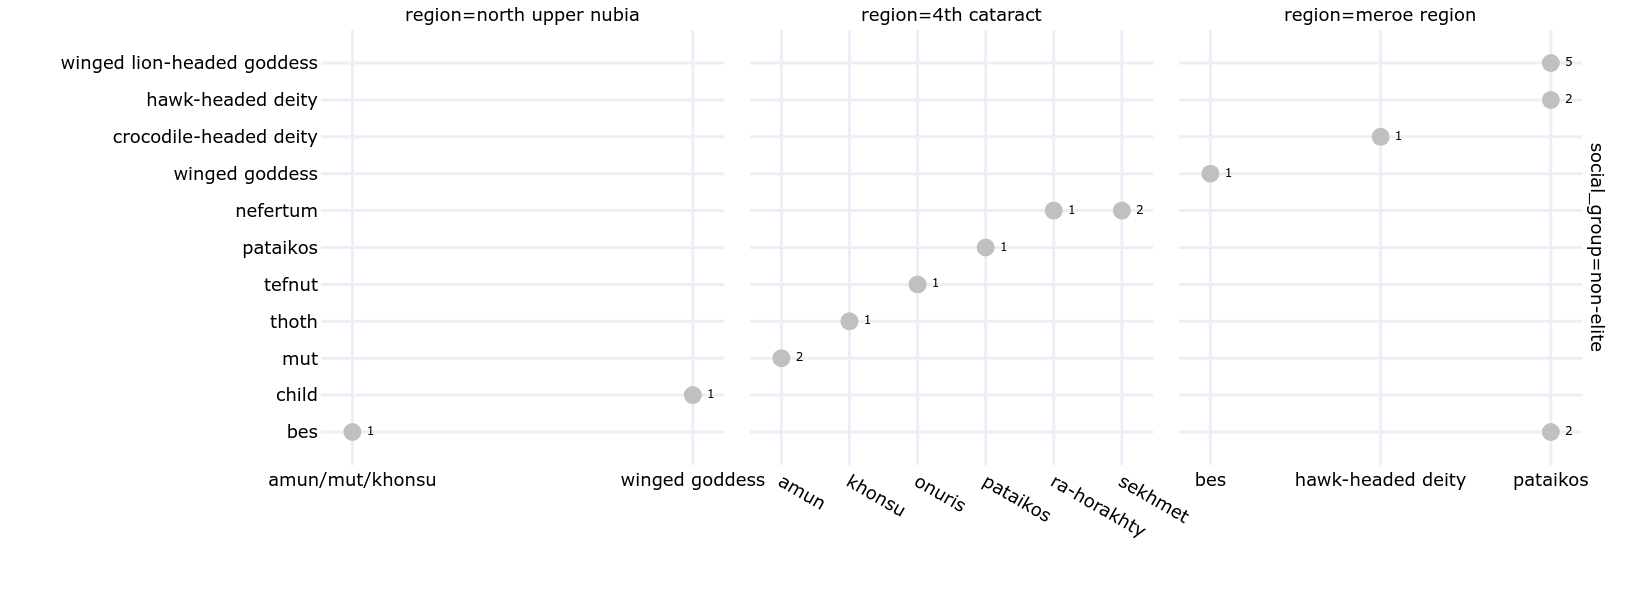
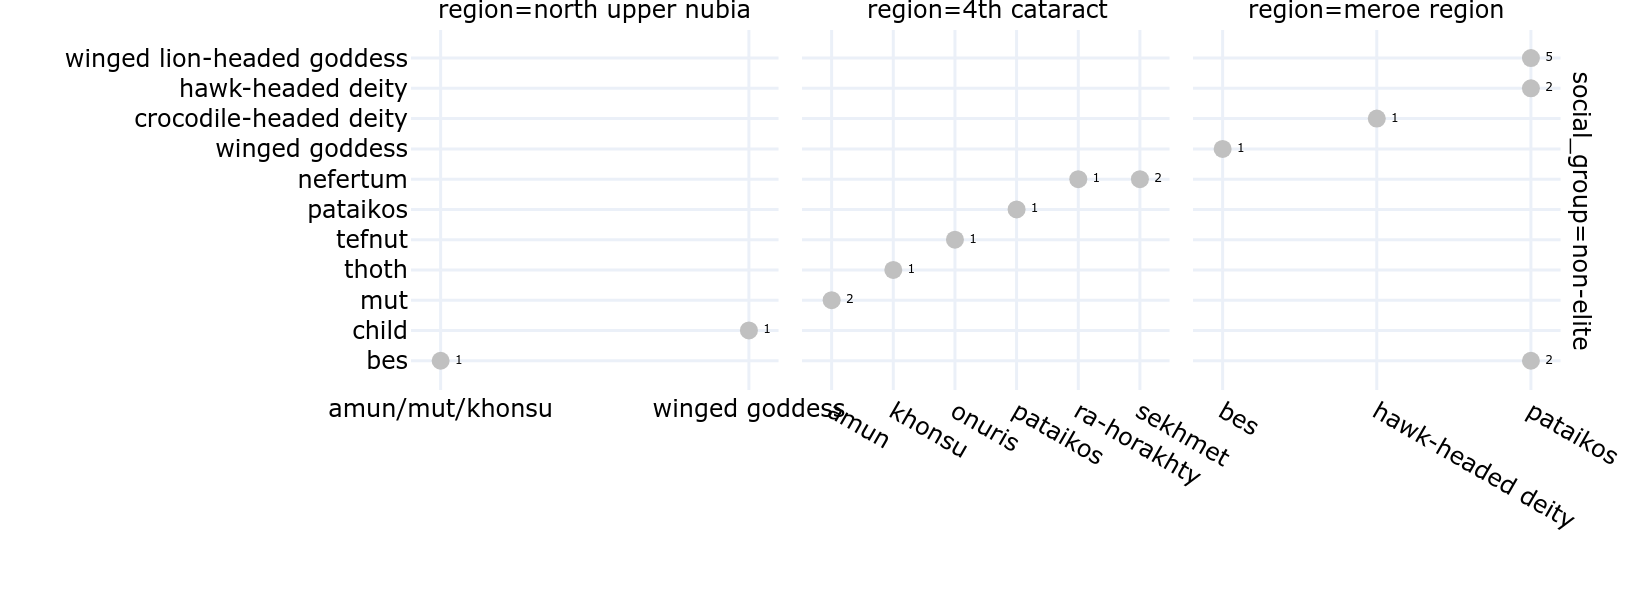
corections

diff --git a/chapter6/motifs_phase_2x_royal.py b/chapter6/motifs_phase_2x_royal.py
@@ -24,7 +24,7 @@ JOIN burials b ON b.burial_id = a.burial_id
 WHERE dating = 'napatan' 
 	AND b.site_id IN (1,2)
 	AND a.form IS NOT NULL
-    AND a.form2 IS NOT NULL
+    AND a.form2 NOT IN ('ape', 'ankh/sun disc/udjat', 'winged uraeus', 'giraffe')
     AND a.type = 'deity'
 GROUP BY 1,2,3,4,5,6
 """
@@ -58,16 +58,16 @@ fig.update_layout(xaxis=dict(automargin=True, title_standoff=0),
     font=dict(
         family="Verdana, sans-serif",
         color='black',
-        size=6),
+        size=8),
     legend_title_text='',
-    title_font=dict(size=6),
+    title_font=dict(size=8),
     autosize=True,
-    margin=dict(l=0, r=0, t=30, b=0),
+    margin=dict(l=0, r=0, t=40, b=0),
     showlegend=False
 )
 
-fig.update_traces(textposition='top right', textfont_size=4)
+fig.update_traces(textposition='middle right', textfont_size=6)
 fig.update_yaxes(title='', nticks=20)
 fig.update_xaxes(title='', matches=None)
 
-pio.write_image(fig, 'images/chapter6/motifs_phase_2x-royal.png',scale=3, width=550, height=200)
+pio.write_image(fig, 'images/chapter6/motifs_phase_2x-royal.png',scale=3, width=550, height=220)

diff --git a/chapter6/motifs_phase_2x_non-elite.py b/chapter6/motifs_phase_2x_non-elite.py
@@ -67,16 +67,16 @@ fig.update_layout(xaxis=dict(automargin=True, title_standoff=0),
     font=dict(
         family="Verdana, sans-serif",
         color='black',
-        size=6),
+        size=8),
     legend_title_text='',
-    title_font=dict(size=6),
+    title_font=dict(size=8),
     autosize=True,
-    margin=dict(l=0, r=0, t=10, b=0),
+    margin=dict(l=0, r=0, t=20, b=0),
     showlegend=False
 )
 
-fig.update_traces(textposition='top right', textfont_size=4)
+fig.update_traces(textposition='middle right', textfont_size=6)
 fig.update_yaxes(title='', nticks=20)
 fig.update_xaxes(title='', matches=None)
 
-pio.write_image(fig, 'images/chapter6/motifs_phase_2x-non-elite.png',scale=3, width=550, height=200)
+pio.write_image(fig, 'images/chapter6/motifs_phase_2x-non-elite.png',scale=3, width=550, height=220)

diff --git a/chapter6/material_region_imp-exp.py b/chapter6/material_region_imp-exp.py
@@ -76,9 +76,9 @@ fig = px.line(
     df_final,
     x='region',
     y='percentage',
-    color='material_type',
-    facet_row='social_group',
-    text=df_final['percentage'].round(0),
+    color='social_group',
+    facet_row='material_type',
+    #text=df_final['percentage'].round(0),
     markers=True,
     template="plotly_white",
     title='Distribution of local and imported amulet materials by social group and region (in %)',
@@ -102,4 +102,4 @@ fig.update_traces(textposition='bottom right', textfont_size=4)
 fig.update_yaxes(title='', matches=None)
 fig.update_xaxes(title='')
 
-pio.write_image(fig, 'images/chapter6/material_region_imp-exp2.png',scale=3, width=550, height=350)
+pio.write_image(fig, 'images/chapter6/material_region_imp-exp2.png',scale=3, width=550, height=250)

diff --git a/chapter6/motifs_region_2x_non-elite.py b/chapter6/motifs_region_2x_non-elite.py
@@ -57,9 +57,9 @@ fig.update_layout(xaxis=dict(automargin=True, title_standoff=0),
     font=dict(
         family="Verdana, sans-serif",
         color='black',
-        size=6),
+        size=8),
     legend_title_text='',
-    title_font=dict(size=6),
+    title_font=dict(size=8),
     autosize=True,
     margin=dict(l=0, r=0, t=10, b=0),
     showlegend=False

diff --git a/chapter6/types_phase.py b/chapter6/types_phase.py
@@ -99,8 +99,6 @@ df_grouped['phase'] = pd.Categorical(df_grouped['phase'], categories=phase_order
 
 df_grouped = df_grouped.sort_values('phase')
 
-print(df_grouped)
-
 fig = px.bar(
     df_grouped,
     x='percentage',
